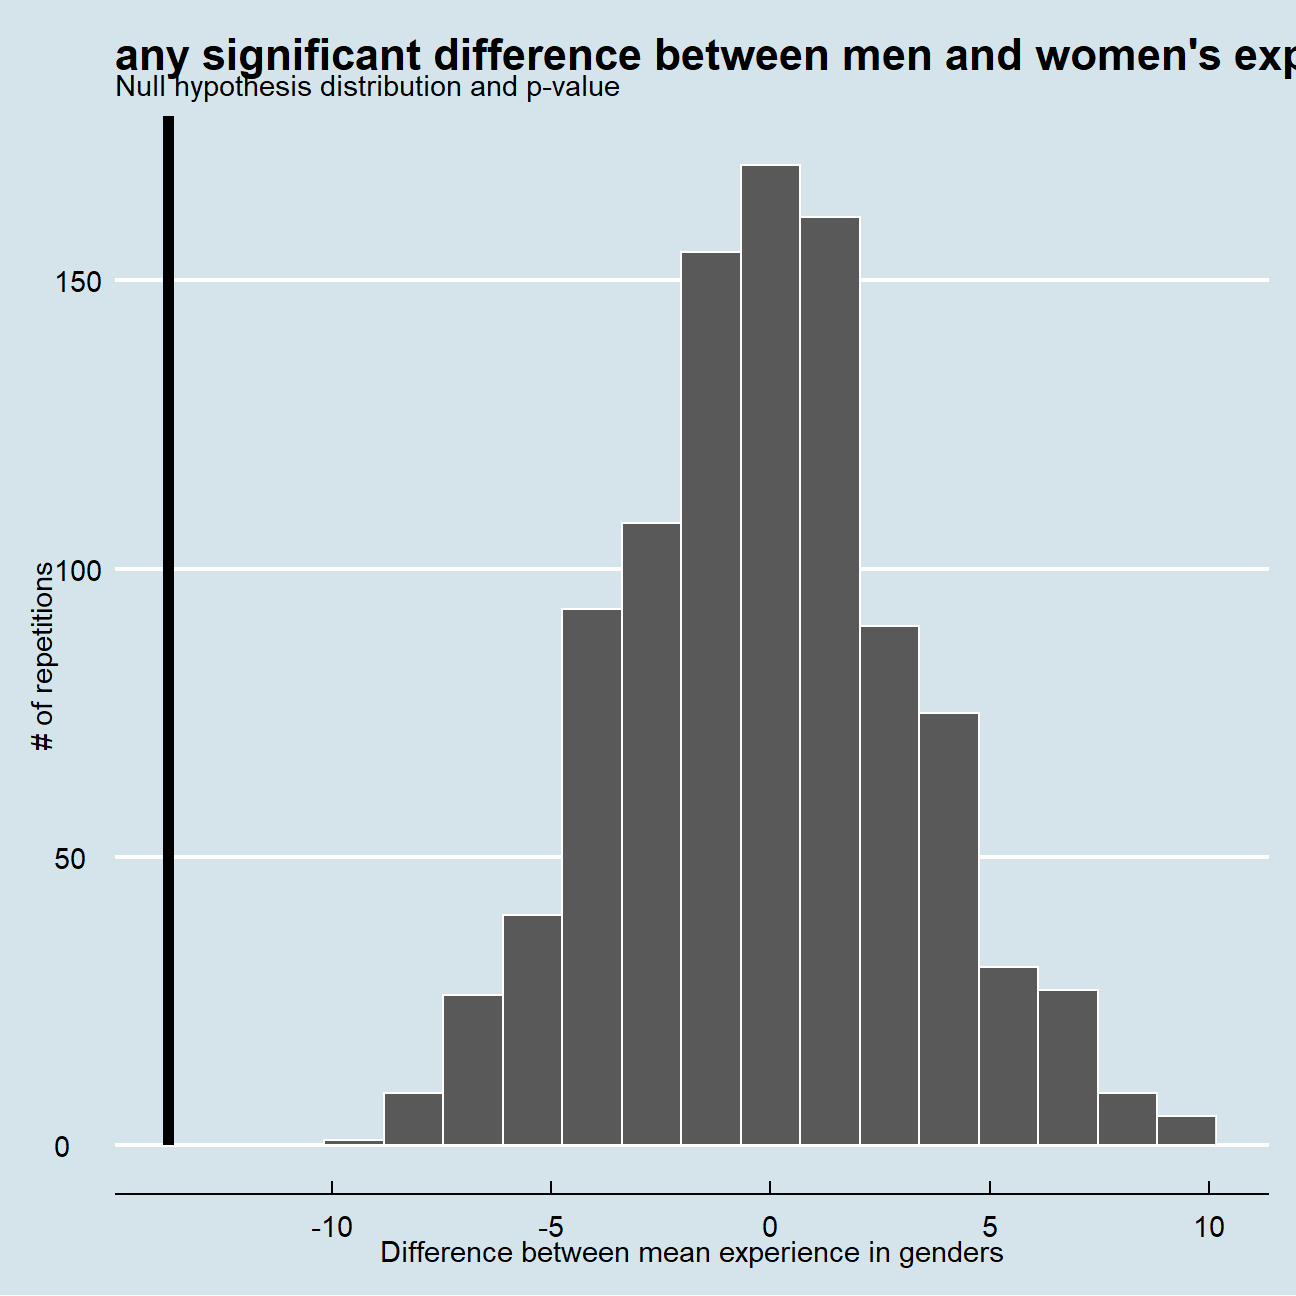
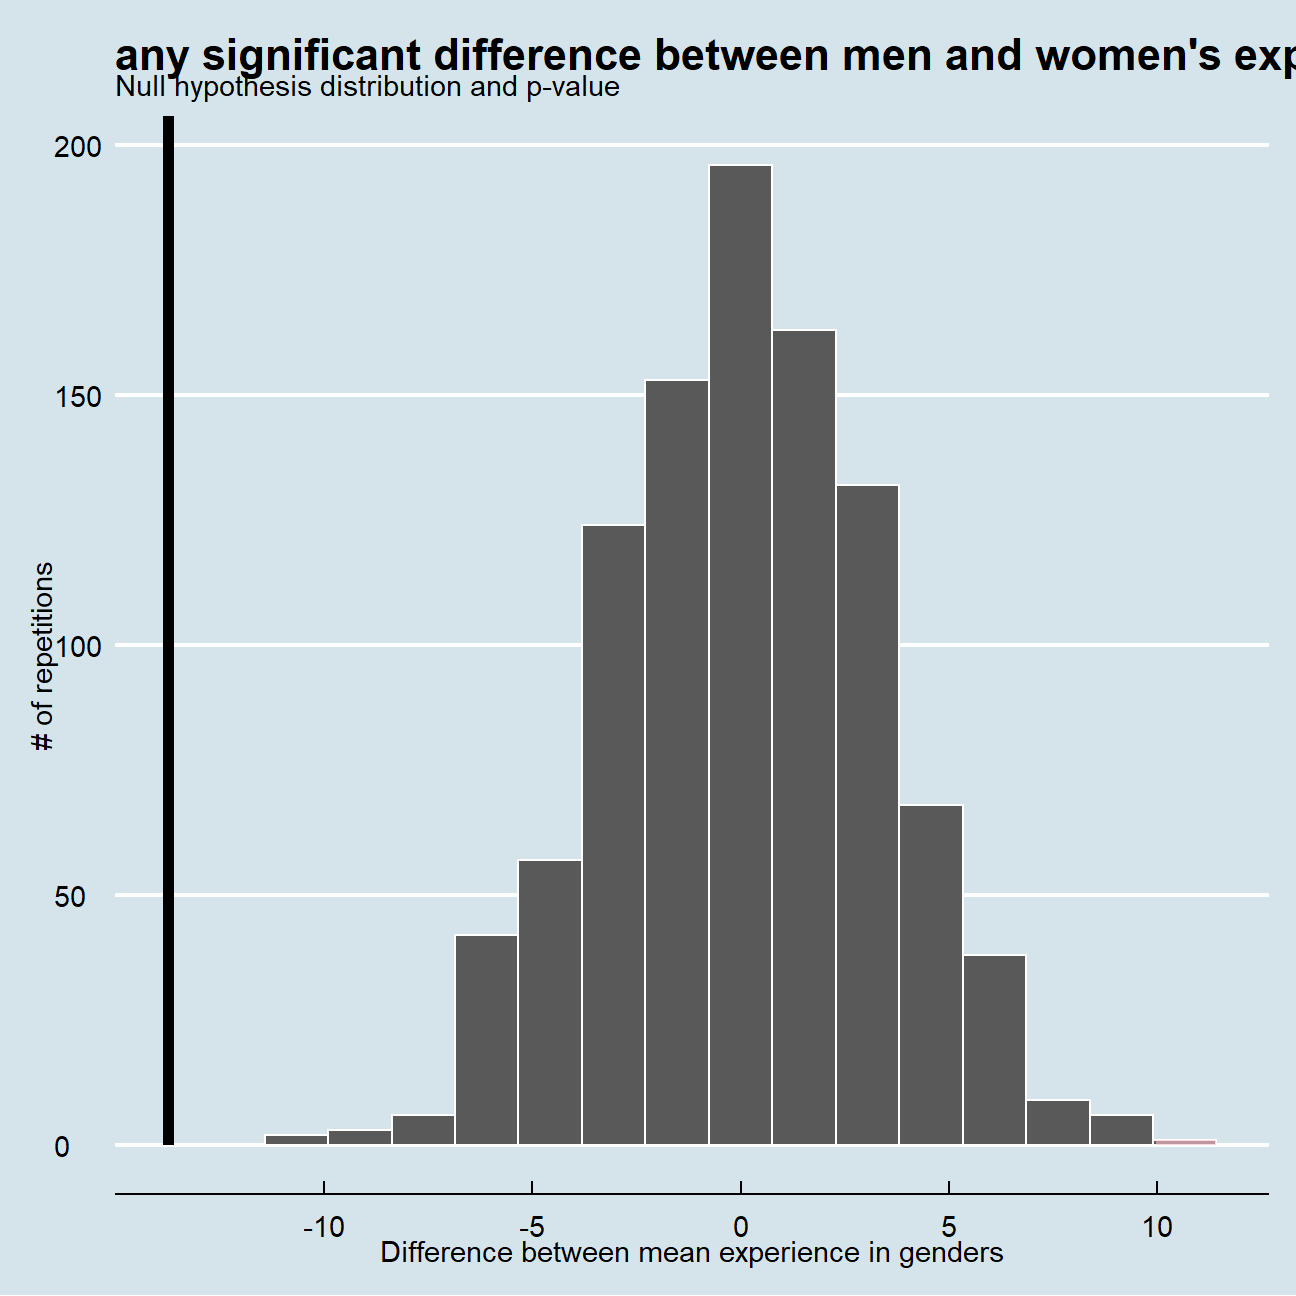
project3

diff --git a/content/projects/project1/index.html b/content/projects/project1/index.html
@@ -5,7 +5,7 @@ categories:
 description: Do men make more money than women?
 draft: false
 keywords: ""
-slug: paydiscrimination
+slug: project1
 title: Do men make more money than women?
 subtitle: Using Omega Plc's data, we look at if salary differences are due to discrimination.
 ---
@@ -102,7 +102,7 @@ salaries_null %&gt;% get_p_value(obs_stat = initialize_null, direction = &quot;t
 <pre><code>## # A tibble: 1 x 1
 ##   p_value
 ##     &lt;dbl&gt;
-## 1       0</code></pre>
+## 1  0.0002</code></pre>
 <blockquote>
 <p>What can you conclude from your analysis?</p>
 </blockquote>

diff --git a/content/projects/project2/yield_curve.html b/content/projects/project2/yield_curve.html
@@ -1,15 +1,13 @@
 ---
-title: "Yield Curve Inversion"
-author: "Study Group 19"
-date: "2020-10-20"
-output:
-  html_document:
-    theme: flatly
-    highlight: zenburn
-    number_sections: yes
-    toc: yes
-    toc_float: yes
-    code_folding: show
+categories:
+- ""
+- ""
+description: Analysis of US yield curve
+draft: false
+keywords: ""
+slug: yieldcurve
+title: Historical Yield Curves - Do they really flatten before a recession?
+subtitle: Using the FRED Database for US data we plot yield curves from 1999 to recognize a pattern.
 ---
 
 

diff --git a/content/projects/project5/index.html b/content/projects/project5/index.html
@@ -5,7 +5,7 @@ categories:
 description: Airbnbs in Athens
 draft: false
 keywords: ""
-slug: athens
+slug: project5
 title: How much are Airbnbs in Athens?
 subtitle: What variables affect the prices of Aribnbs in Athens, Greece?
 ---
